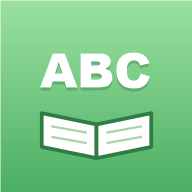
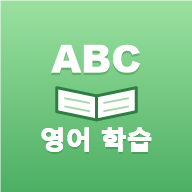
앱 아이콘에 '영어 학습' 글자 추가

Changed region(s): [[0.1875, 0.2188, 0.8125, 0.8438]]

diff --git a/sw.js b/sw.js
@@ -1,5 +1,5 @@
-// 단어나 화면을 고친 뒤에는 VERSION 숫자를 올려주세요 (폰에 새 버전이 반영됩니다)
-const VERSION = "v4";
+// ?⑥뼱???붾㈃??怨좎튇 ?ㅼ뿉??VERSION ?レ옄瑜??щ젮二쇱꽭??(?곗뿉 ??踰꾩쟾??諛섏쁺?⑸땲??
+const VERSION = "v5";
 const FILES = ["./", "index.html", "words.js", "manifest.json", "icon-192.png", "icon-512.png"];
 
 self.addEventListener("install", (e) => {
@@ -14,7 +14,7 @@ self.addEventListener("activate", (e) => {
   self.clients.claim();
 });
 
-// 인터넷이 되면 새 파일, 안 되면 저장된 파일 사용
+// ?명꽣?룹씠 ?섎㈃ ???뚯씪, ???섎㈃ ??λ맂 ?뚯씪 ?ъ슜
 self.addEventListener("fetch", (e) => {
   if (e.request.method !== "GET") return;
   e.respondWith(
